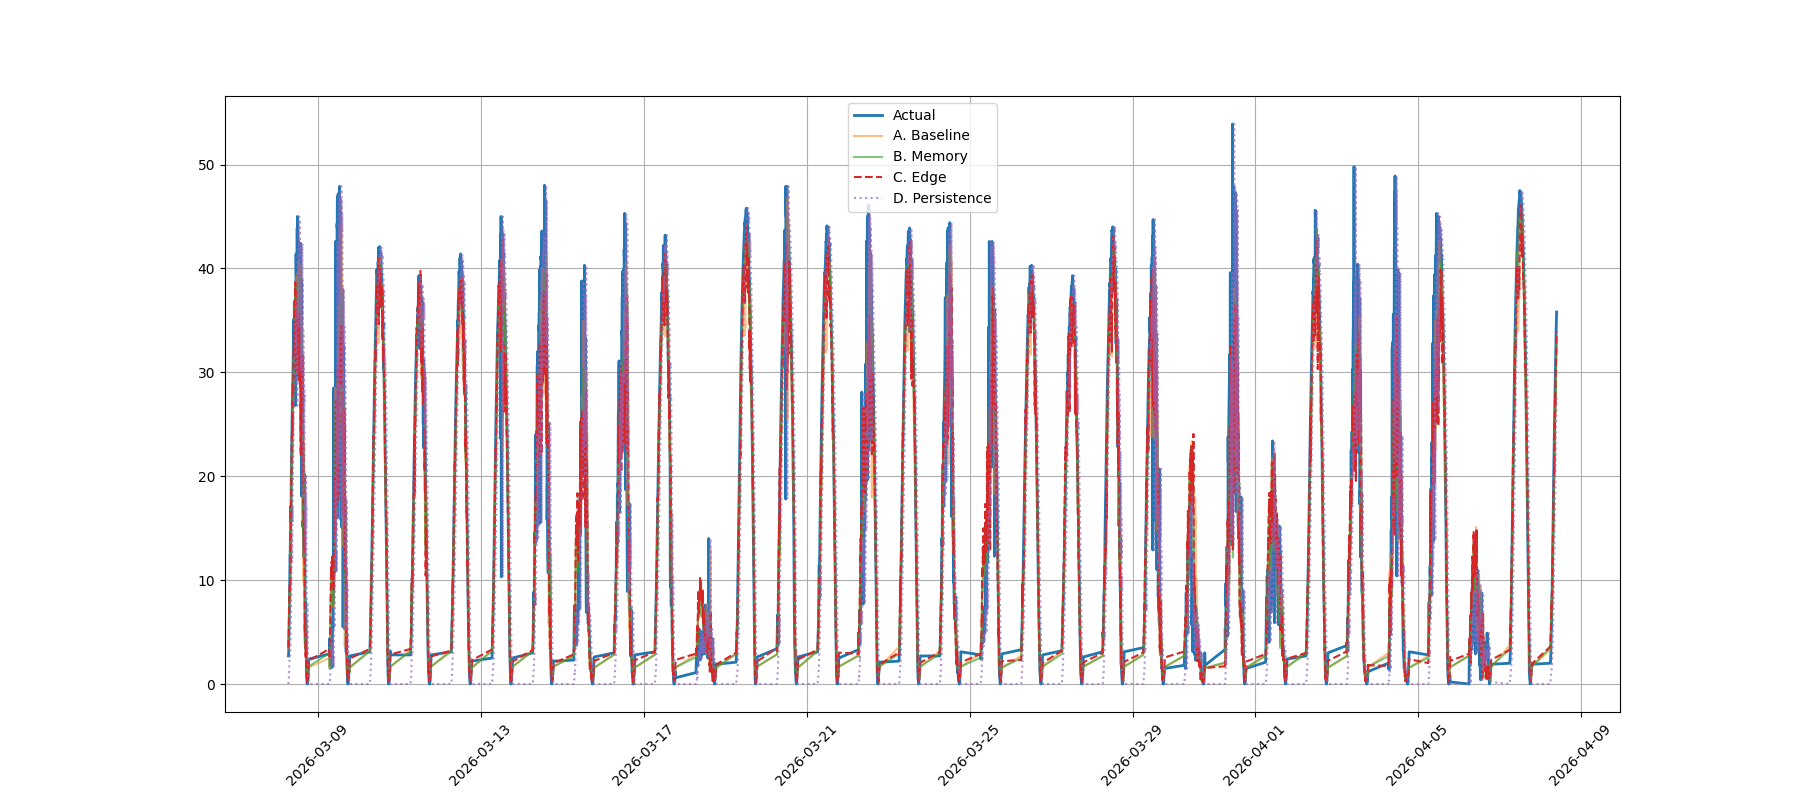
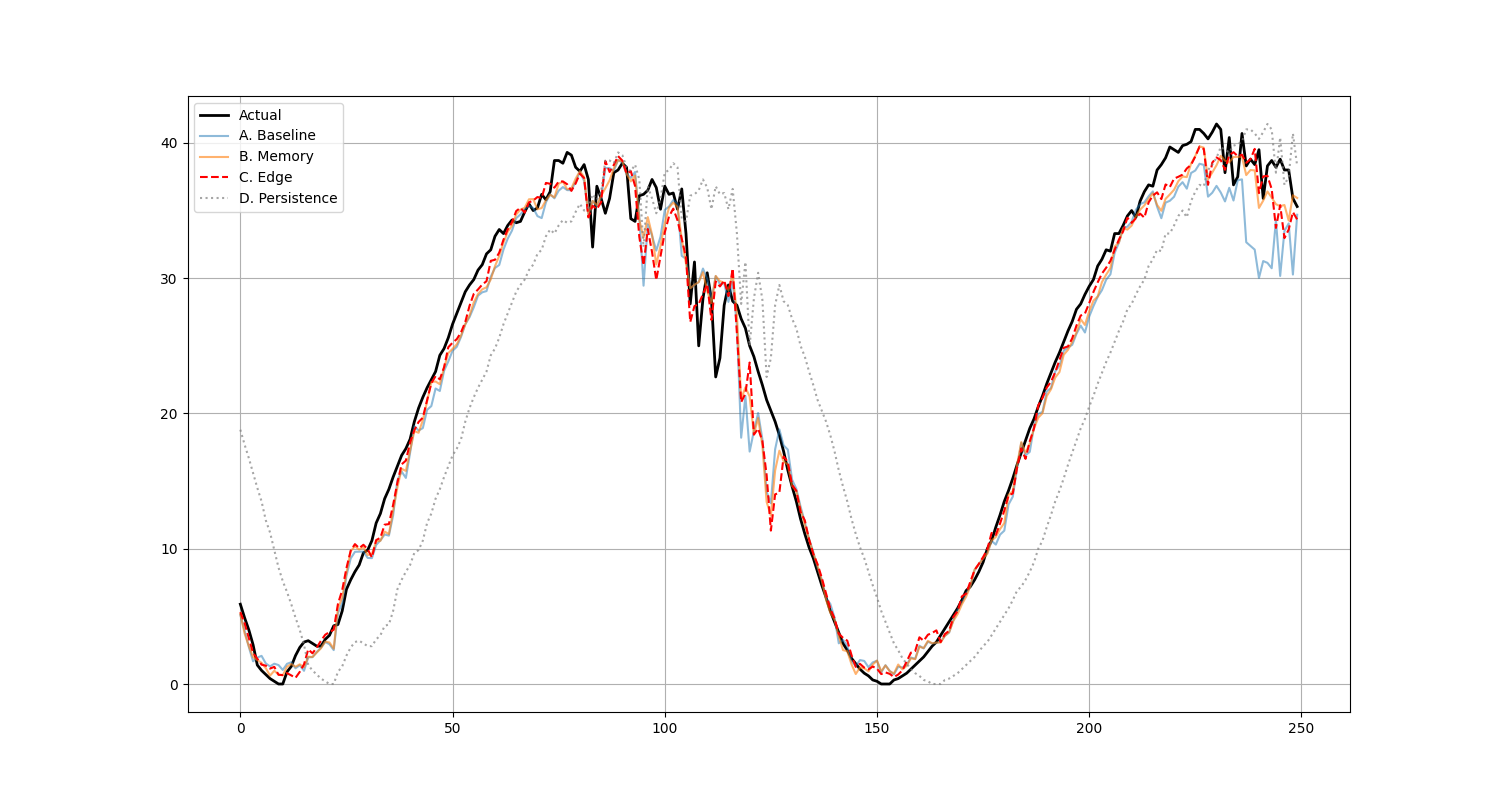
이상치 처리후 ver2 학습

diff --git a/train_model_ver2.py b/train_model_ver2.py
@@ -1,0 +1,163 @@
+import pandas as pd
+import numpy as np
+import matplotlib.pyplot as plt
+from xgboost import XGBRegressor
+from sklearn.metrics import mean_absolute_error, mean_squared_error, r2_score
+import os
+
+def prepare_data(sn):
+    file_path = f'preprocessed_{sn}_ver2.csv'
+    df = pd.read_csv(file_path)
+    df['time'] = pd.to_datetime(df['time'])
+    
+    df = pd.read_csv(file_path)
+    df['time'] = pd.to_datetime(df['time'])
+
+    df = pd.get_dummies(df, columns=['sky', 'pty'])
+
+    # Feature Engineering
+    for lag in [1, 3, 6, 12]:
+        df[f'Pac_lag{lag}'] = df['Pac'].shift(lag)
+        df[f'light_lag{lag}'] = df['light_intensity'].shift(lag)
+        
+    df['Pac_roll_mean_1h'] = df['Pac'].rolling(window=12).mean()
+    df['Pac_roll_std_1h'] = df['Pac'].rolling(window=12).std()
+    df['Pac_roll_std_15min'] = df['Pac'].rolling(window=3).std()
+    
+    df['light_diff'] = df['light_intensity'].diff()
+    df['light_accel'] = df['light_diff'].diff()
+    df['Pac_diff'] = df['Pac'].diff()
+    
+    df['target_delta'] = df['Pac'].shift(-12) - df['Pac']
+    df['hour'] = df['time'].dt.hour
+    df['hour_sin'] = np.sin(2 * np.pi * df['hour'] / 24)
+    df['hour_cos'] = np.cos(2 * np.pi * df['hour'] / 24)
+    
+    weather_features = ['reh_weather', 'ws_weather', 'rain_weather'] + \
+                   [col for col in df.columns if col.startswith('sky_') or col.startswith('pty_')]
+
+    features_all = [
+        'hour_sin', 'hour_cos', 'Pac', 'Pac_diff',
+        'Pac_lag1', 'Pac_lag3', 'Pac_lag6', 'Pac_lag12',
+        'light_intensity', 'light_lag1', 'light_diff', 'light_accel',
+        'Pac_roll_mean_1h', 'Pac_roll_std_1h', 'Pac_roll_std_15min',
+        'Upv1', 'Ipv1', 'Upv2', 'Ipv2', 'Upv3', 'Ipv3', 
+        'Tmod', 'Tamb', 'PF', 'PF_abnormal',
+        'temperature', 'humidity', 'wind_speed', 'uv_index'
+    ] + weather_features
+    
+    print(f"Initial DF rows: {len(df)}")
+    df_clean = df.dropna(subset=['target_delta'] + features_all).copy()
+    print(f"Cleaned DF rows: {len(df_clean)}")
+    
+    if len(df_clean) == 0:
+        print("DEBUG: Checking NaNs per column:")
+        print(df[['target_delta'] + features_all].isna().sum())
+    
+    # 2026-03-08 Fixed Date Split
+    test_start_date = '2026-03-08'
+    train_df = df_clean[df_clean['time'] < test_start_date]
+    test_df = df_clean[df_clean['time'] >= test_start_date]
+    
+    return train_df, test_df, features_all, weather_features
+
+def train_model(X_train, y_train, X_test, y_test, features, name, sample_weight=None, depth=6):
+    if len(X_train) == 0:
+        return np.array([]), np.array([])
+    print(f"  Training {name}...")
+    X_tr = X_train[features]
+    X_te = X_test[features]
+    
+    model = XGBRegressor(n_estimators=500, learning_rate=0.01, max_depth=depth, random_state=42, n_jobs=-1, early_stopping_rounds=50)
+    
+    val_split = int(len(X_tr) * 0.9)
+    X_t, X_v = X_tr.iloc[:val_split], X_tr.iloc[val_split:]
+    y_t, y_v = y_train.iloc[:val_split], y_train.iloc[val_split:]
+    sw_t = sample_weight.iloc[:val_split] if sample_weight is not None else None
+    sw_v = sample_weight.iloc[val_split:] if sample_weight is not None else None
+    
+    model.fit(X_t, y_t, sample_weight=sw_t, eval_set=[(X_v, y_v)], sample_weight_eval_set=[sw_v], verbose=False)
+    
+    pred_delta = model.predict(X_te)
+    actual_current_pac = X_test['Pac'].values
+    pred_pac = np.maximum(actual_current_pac + pred_delta, 0)
+    actual_future_pac = actual_current_pac + y_test.values
+    
+    return pred_pac, actual_future_pac
+
+def run_comparison(sn):
+    print(f"\n===== [Weather Integrated Comparison] Inverter {sn} =====")
+    train_df, test_df, features_all, weather_features = prepare_data(sn)
+    
+    if len(train_df) == 0:
+        print(f"Skipping {sn} due to empty data.")
+        return
+
+    y_train = train_df['target_delta']
+    y_test = test_df['target_delta']
+    
+    results = {}
+    feat_a = ['hour_sin', 'hour_cos', 'Pac', 'light_intensity', 'temperature', 'humidity', 'wind_speed', 'uv_index', 
+              'Upv1', 'Ipv1', 'Upv2', 'Ipv2', 'Upv3', 'Ipv3', 'Tmod', 'Tamb', 'PF', 'PF_abnormal'] + weather_features
+    pred_a, actual = train_model(train_df, y_train, test_df, y_test, feat_a, "A. Baseline (Weather)")
+    results['Baseline'] = pred_a
+    
+    feat_b = [f for f in features_all if f not in ['light_diff', 'light_accel']]
+    pred_b, _ = train_model(train_df, y_train, test_df, y_test, feat_b, "B. Memory-Enhanced (Weather)")
+    results['Memory'] = pred_b
+    
+    max_delta = np.max(np.abs(y_train))
+    sw = 1.0 + 4.0 * (np.abs(y_train) / max_delta)
+    pred_c, _ = train_model(train_df, y_train, test_df, y_test, features_all, "C. Edge-Tracking (Weather)", sample_weight=sw, depth=9)
+    results['Edge'] = pred_c
+    
+    summary = []
+    for name, pred in results.items():
+        if len(pred) > 0:
+            mae = mean_absolute_error(actual, pred)
+            rmse = np.sqrt(mean_squared_error(actual, pred))
+            r2 = r2_score(actual, pred)
+            summary.append({'Model': name, 'MAE': mae, 'RMSE': rmse, 'R2': r2})
+    
+    pred_pers = test_df['Pac'].values
+    summary.append({'Model': 'Persistence', 'MAE': mean_absolute_error(actual, pred_pers), 
+                    'RMSE': np.sqrt(mean_squared_error(actual, pred_pers)), 'R2': r2_score(actual, pred_pers)})
+    
+    print("\nPerformance Summary:")
+    print(pd.DataFrame(summary).to_string(index=False))
+    
+    # 그래프 일부만
+    plt.figure(figsize=(15, 8))
+    start_idx, end_idx = 400, 650
+    plt.plot(actual[start_idx:end_idx], label='Actual', color='black', linewidth=2)
+    plt.plot(results['Baseline'][start_idx:end_idx], label='A. Baseline', alpha=0.5)
+    plt.plot(results['Memory'][start_idx:end_idx], label='B. Memory', alpha=0.6)
+    plt.plot(results['Edge'][start_idx:end_idx], label='C. Edge', color='red', linestyle='--')
+    plt.plot(pred_pers[start_idx:end_idx], label='D. Persistence', color='gray', linestyle=':', alpha=0.7)
+    plt.legend(); plt.grid(True)
+    plt.savefig(f'final_comparison_{sn}_weather.png'); plt.close()
+
+
+    # # 👉 전체 시간
+    # plt.figure(figsize=(18, 8))
+
+    # time_all = test_df['time']
+
+    # plt.plot(time_all, actual, label='Actual', linewidth=2)
+    # plt.plot(time_all, results['Baseline'], label='A. Baseline', alpha=0.5)
+    # plt.plot(time_all, results['Memory'], label='B. Memory', alpha=0.6)
+    # plt.plot(time_all, results['Edge'], label='C. Edge', linestyle='--')
+    # plt.plot(time_all, pred_pers, label='D. Persistence', linestyle=':', alpha=0.7)
+
+    # plt.legend()
+    # plt.grid(True)
+
+    # # 👉 x축 시간 보기 좋게
+    # plt.xticks(rotation=45)
+
+    # plt.savefig(f'final_comparison_{sn}_weather.png')
+    # plt.close()
+
+if __name__ == "__main__":
+    for sn in ['3012', '5009']:
+        run_comparison(sn)

diff --git a/process_data_ver2.py b/process_data_ver2.py
@@ -1,0 +1,197 @@
+import pandas as pd
+import numpy as np
+from datetime import datetime
+
+def rain_num(df_weather):
+    df_weather['rn1_num'] = df_weather['rn1'].replace('강수없음', '0')
+    df_weather['rn1_num'] = df_weather['rn1_num'].replace('1mm 미만', '0.1')
+
+    mask = df_weather['rn1_num'] == '\\N'
+    df_weather.loc[mask & (df_weather['pty'] == 0), 'rn1_num'] = '0'
+    df_weather.loc[mask & (df_weather['pty'] != 0), 'rn1_num'] = '0.1'
+
+    df_weather['rn1_num'] = df_weather['rn1_num'].str.replace('mm', '')
+    df_weather['rn1_num'] = pd.to_numeric(df_weather['rn1_num'], errors='coerce')
+
+    return df_weather
+
+
+def preprocess():
+    print("Starting data preprocessing...")
+
+    # =========================
+    # 1. Load Inverter Data
+    # =========================
+    print("Loading total_power.csv...")
+    df_power = pd.read_csv('total_power.csv', engine='python')
+
+    df_power['SN'] = df_power['SN'].astype(str)
+    df_power = df_power[df_power['SN'].str.endswith(('3012', '5009'))].copy()
+
+    df_power['SN_short'] = df_power['SN'].apply(
+        lambda x: '3012' if x.endswith('3012') else '5009'
+    )
+
+    df_power['datetime'] = pd.to_datetime(df_power['crt_dttm'])
+    df_power['time_5min'] = df_power['datetime'].dt.floor('5min')
+
+    # 🔥 이상치 처리 (groupby 전에!)
+    print("Handling inverter outliers...")
+
+    # Ipv → 0
+    for col in ['Ipv1', 'Ipv2', 'Ipv3']:
+        df_power.loc[df_power[col] > 100, col] = 0
+
+    # Tmod, Tamb → 100 초과인 이상치 제거
+    df_power = df_power[
+        (df_power['Tmod'] <= 100) &
+        (df_power['Tamb'] <= 100)
+    ]
+
+    # PF 이상치 여부 feature
+    df_power['PF_abnormal'] = (df_power['PF'] > 1).astype(int)
+
+    # PF → NaN
+    df_power.loc[df_power['PF'] > 1, 'PF'] = np.nan
+
+    power_cols = [
+        'time_5min', 'SN_short',
+        'Pac', 'Upv1', 'Ipv1', 'Upv2', 'Ipv2', 'Upv3', 'Ipv3',
+        'Tmod', 'Tamb', 'PF', 'PF_abnormal'
+    ]
+
+    df_power = (
+        df_power[power_cols]
+        .groupby(['time_5min', 'SN_short'])
+        .mean()
+        .reset_index()
+    )
+
+    # =========================
+    # 2. Sensor Data
+    # =========================
+    print("Loading sensor data...")
+    df_sensor = pd.read_csv('total_IoT_sensor.csv', engine='python')
+
+    df_sensor['datetime'] = pd.to_datetime(df_sensor['create_at'])
+    df_sensor['time_5min'] = df_sensor['datetime'].dt.floor('5min')
+
+    sensor_features = [
+        'light_intensity', 'temperature',
+        'humidity', 'wind_speed', 'uv_index'
+    ]
+
+    df_sensor_5min = (
+        df_sensor.groupby('time_5min')[sensor_features]
+        .mean()
+        .reset_index()
+    )
+
+    # 👉 센서는 그대로 (가볍게만)
+    df_sensor_5min[sensor_features] = (
+        df_sensor_5min[sensor_features]
+        .interpolate()
+        .fillna(0)
+    )
+
+    # =========================
+    # 3. Weather Data
+    # =========================
+    print("Loading weather data...")
+    df_weather = pd.read_csv('moa_weather.csv', engine='python')
+
+    df_weather = rain_num(df_weather)
+
+    df_weather['tm_str'] = (
+        df_weather['base_date'].astype(str)
+        + df_weather['base_time'].astype(str).str.zfill(4)
+    )
+
+    df_weather['tm'] = pd.to_datetime(df_weather['tm_str'], format='%Y%m%d%H%M')
+
+    # 🔥 정렬 + 마지막 값 유지
+    df_weather = df_weather.sort_values('tm').groupby('tm').last()
+
+    # 🔥 이상치 제거
+    df_weather = df_weather[
+        (df_weather['t1h'] >= 0) &
+        (df_weather['reh'] >= 0) &
+        (df_weather['wsd'] >= 0) &
+        (df_weather['sky'] >= 0) &
+        (df_weather['pty'] >= 0)
+    ]
+
+    # 5분 리샘플
+    new_index = pd.date_range(
+        start=df_weather.index.min(),
+        end=df_weather.index.max(),
+        freq='5min'
+    )
+
+    df_weather_5min = df_weather.reindex(new_index)
+
+    # 연속형
+    cont_cols = ['t1h', 'reh', 'wsd']
+
+    df_weather_5min[cont_cols] = df_weather_5min[cont_cols].interpolate(
+        method='linear',
+        limit=12
+    )
+
+    df_weather_5min['rn1_num'] = df_weather_5min['rn1_num'].fillna(0)
+
+    # 범주형
+    df_weather_5min[['sky', 'pty']] = (
+        df_weather_5min[['sky', 'pty']]
+        .ffill()
+        .bfill()
+    )
+
+    df_weather_5min = (
+        df_weather_5min
+        .reset_index()
+        .rename(columns={'index': 'time_5min'})
+    )
+
+    df_weather_5min = df_weather_5min.rename(columns={
+        't1h': 'tmp_weather',
+        'reh': 'reh_weather',
+        'wsd': 'ws_weather',
+        'rn1_num': 'rain_weather'
+    })
+
+    weather_final_cols = [
+        'time_5min',
+        'tmp_weather', 'reh_weather',
+        'ws_weather', 'rain_weather',
+        'sky', 'pty'
+    ]
+
+    df_weather_5min = df_weather_5min[weather_final_cols]
+
+    # =========================
+    # 4. Merge
+    # =========================
+    print("Merging...")
+    df_merged = pd.merge(df_power, df_sensor_5min, on='time_5min', how='left')
+    df_merged = pd.merge(df_merged, df_weather_5min, on='time_5min', how='left')
+
+    # =========================
+    # 5. Save
+    # =========================
+    for sn in ['3012', '5009']:
+        df_sn = df_merged[df_merged['SN_short'] == sn].copy()
+
+        df_sn = df_sn.drop(columns=['SN_short']).rename(columns={'time_5min': 'time'})
+
+        # 👉 마지막 결측만 정리
+        df_sn = df_sn.ffill().bfill().fillna(0)
+
+        df_sn.to_csv(f'preprocessed_{sn}_ver2.csv', index=False)
+        print(f"Saved preprocessed_{sn}_ver2.csv")
+
+    print("Preprocessing complete!")
+
+
+if __name__ == "__main__":
+    preprocess()
